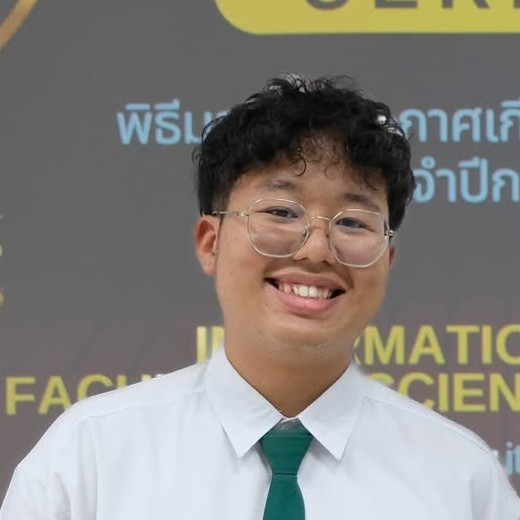
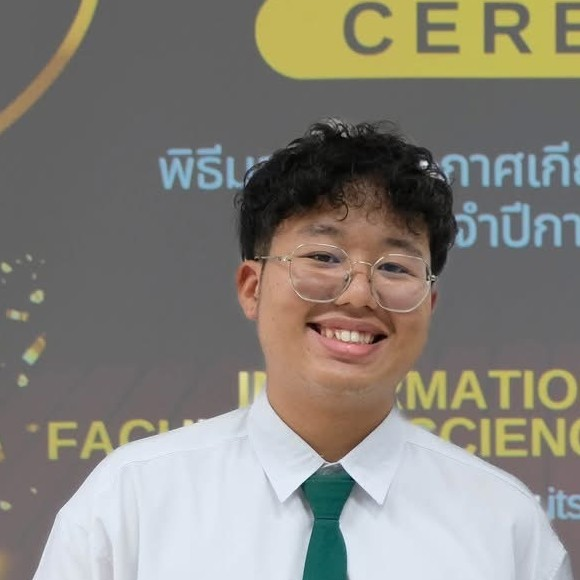
fix: precisely center headshot crop and align hero container

diff --git a/src/components/Hero.jsx b/src/components/Hero.jsx
@@ -21,15 +21,15 @@ export default function Hero() {
 
   return (
     <section id="hero" className="relative flex min-h-[calc(100vh-4.5rem)] items-center justify-center py-16 px-4">
-      <div className="mx-auto max-w-4xl text-center relative z-10">
+      <div className="mx-auto max-w-4xl flex flex-col items-center text-center relative z-10 w-full">
         {/* Profile Avatar */}
-        <div className="relative inline-block mb-8">
-          <div className="absolute -inset-1.5 rounded-full bg-gradient-to-r from-cyan-500 via-indigo-500 to-purple-500 opacity-60 blur-xl transition duration-500 group-hover:opacity-100 animate-pulse"></div>
-          <div className="relative p-1 rounded-full bg-gradient-to-br from-cyan-400 via-slate-800 to-purple-500 shadow-2xl">
+        <div className="relative mb-8 flex justify-center items-center">
+          <div className="absolute -inset-1.5 rounded-full bg-gradient-to-r from-cyan-500 via-indigo-500 to-purple-500 opacity-60 blur-xl transition duration-500 animate-pulse"></div>
+          <div className="relative p-1 rounded-full bg-gradient-to-br from-cyan-400 via-slate-800 to-purple-500 shadow-2xl flex items-center justify-center">
             <img
               src={profileAvatar}
               alt="กฤตวิทย์ บุญสพ (Krittawit Bunsop)"
-              className="h-36 w-36 sm:h-44 sm:w-44 md:h-48 md:w-48 rounded-full object-cover shadow-inner ring-4 ring-slate-950/80"
+              className="h-36 w-36 sm:h-44 sm:w-44 md:h-48 md:w-48 rounded-full object-cover object-center shadow-inner ring-4 ring-slate-950/80 block"
             />
           </div>
         </div>
